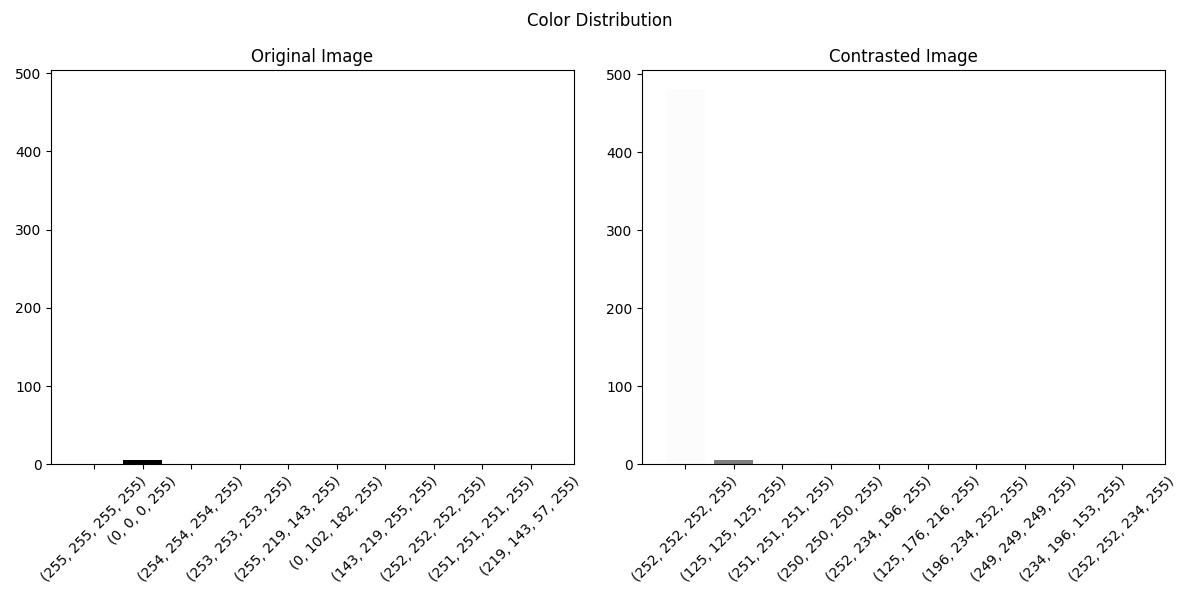
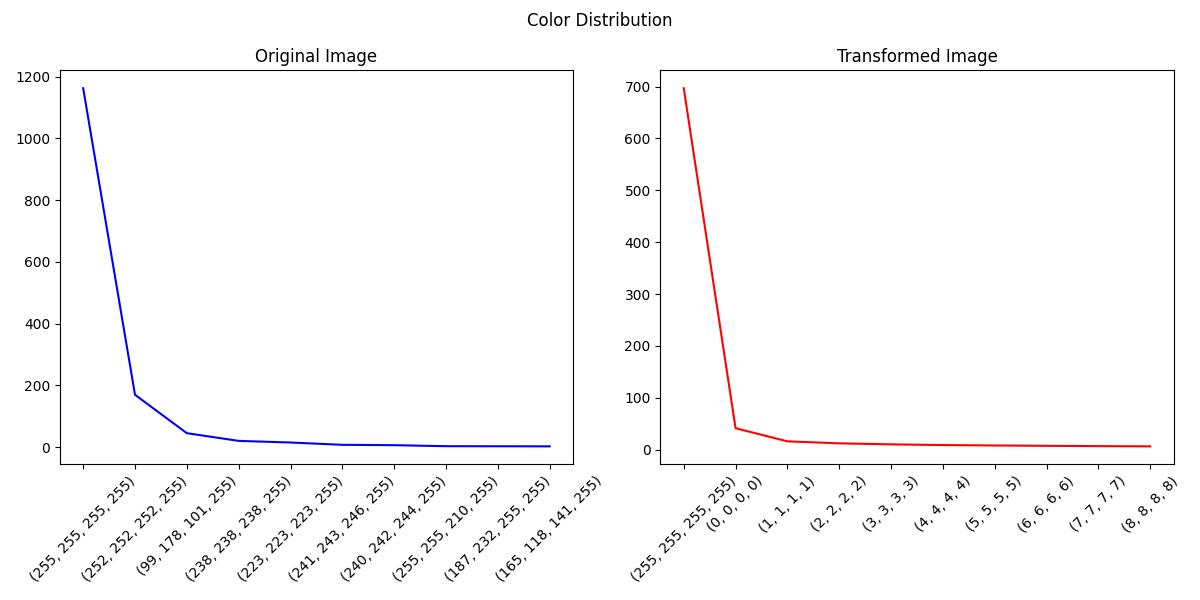
End

diff --git a/docs/templates/index.html b/docs/templates/index.html
@@ -1,27 +1,62 @@
 <!DOCTYPE html>
 <html>
-    <link rel="shortcut icon" href="/uploads/favicon.png" type="image/png">
-    <link href="https://cdn.jsdelivr.net/npm/bootstrap@5.0.2/dist/css/bootstrap.min.css" rel="stylesheet" integrity="sha384-EVSTQN3/azprG1Anm3QDgpJLIm9Nao0Yz1ztcQTwFspd3yD65VohhpuuCOmLASjC" crossorigin="anonymous">
-<head>
-    <title>Vertex Редактор</title>
-    <script src="https://www.google.com/recaptcha/api.js" async defer></script>
-</head>
-
-<body class="piwqnrfj"style="background-color:violet; padding: 100px;">
-
-    <center>
-        <div class="b4 container-fluid">
-            <h1><b>Именение изображения</b></h1>
-            <form action="{{ url_for('contrast') }}" method="post" enctype="multipart/form-data">
-                <label for="file">Выберите изображение для изменения:</label>
-                <input type="file" name="file" id="file" required><br><br>
-                <label for="contrast">Contrast level (0-1):</label>
-                <input type="number" name="contrast" id="contrast" min="0" max="1" step="0.1" value="0.5" required><br><br>
-                <div class="g-recaptcha" data-sitekey="{{ sitekey }}"></div><br><br>
-                <input type="submit" class="btn btn-info" value="Делай!" style="background-color: aquamarine; height: 200px; width: 200px; font-size: 40pt;">
-            </form>
+    <head>
+        <title>Vertex Editor</title>
+        <link href="https://cdn.jsdelivr.net/npm/bootstrap@5.0.2/dist/css/bootstrap.min.css" rel="stylesheet" integrity="sha384-EVSTQN3/azprG1Anm3QDgpJLIm9Nao0Yz1ztcQTwFspd3yD65VohhpuuCOmLASjC" crossorigin="anonymous">
+        <style>
+            body {
+                background-color: #000;
+                color: #fff;
+                padding: 100px;
+            }
+            .form-control:focus {
+                border-color: #3ee;
+                box-shadow: none;
+            }
+            .btn-primary {
+                background-color: #3ee;
+                border-color: #3ee;
+                font-size: 24px;
+                font-weight: bold;
+                padding: 10px 20px;
+            }
+            .btn-primary:hover {
+                background-color: #2dd;
+                border-color: #2dd;
+            }
+            .g-recaptcha {
+                display: inline-block;
+                margin-top: 20px;
+            }
+        </style>
+        <script src="https://www.google.com/recaptcha/api.js" async defer></script>
+    </head>
+    <body>
+        <div class="container">
+            <div class="row justify-content-center">
+                <div class="col-md-6">
+                    <h1 class="text-center mb-5">Image Transformation</h1>
+                    <form action="{{ url_for('transform') }}" method="post" enctype="multipart/form-data">
+                        <div class="form-group">
+                            <label for="file">Select an image to transform:</label>
+                            <input type="file" name="file" id="file" class="form-control" required>
+                        </div>
+                        <div class="form-group">
+                            <label for="function_type">Function type (sin/cos):</label>
+                            <input type="text" name="function_type" id="function_type" class="form-control" required>
+                        </div>
+                        <div class="form-group">
+                            <label for="period">Period:</label>
+                            <input type="number" name="period" id="period" class="form-control" required>
+                        </div>
+                        <div class="form-group">
+                            <div class="g-recaptcha" data-sitekey="{{ sitekey }}"></div>
+                        </div>
+                        <button type="submit" class="btn btn-primary btn-block">Transform</button>
+                    </form>
+                </div>
+            </div>
         </div>
-    </center>
-    <script src="https://cdn.jsdelivr.net/npm/bootstrap@5.0.2/dist/js/bootstrap.bundle.min.js" integrity="sha384-MrcW6ZMFYlzcLA8Nl+NtUVF0sA7MsXsP1UyJoMp4YLEuNSfAP+JcXn/tWtIaxVXM" crossorigin="anonymous"></script>
-</body>
+        <script src="https://cdn.jsdelivr.net/npm/bootstrap@5.0.2/dist/js/bootstrap.bundle.min.js" integrity="sha384-MrcW6ZMFYlzcLA8Nl+NtUVF0sA7MsXsP1UyJoMp4YLEuNSfAP+JcXn/tWtIaxVXM" crossorigin="anonymous"></script>
+    </body>
 </html>

diff --git a/docs/templates/result.html b/docs/templates/result.html
@@ -15,8 +15,8 @@
     <h1>Result</h1>
     <h2>Original Image: {{ orig }}</h2>
     <img src="{{ url_for('uploaded_file', filename='orig.png') }}" alt="Original Image">
-    <h2>Contrast-Adjusted Image</h2>
-    <img src="{{ url_for('uploaded_file', filename='contrasted.png') }}" alt="Contrast-Adjusted Image">
+    <h2>Transformed Image</h2>
+    <img src="{{ url_for('uploaded_file', filename='transformed.png') }}" alt="Transformed Image">
     <h2>Color Distribution</h2>
     <img src="{{ url_for('uploaded_file', filename='plot.png') }}" alt="Color Distribution">
     <button onclick="history.back()">Go back</button>

diff --git a/docs/app.py b/docs/app.py
@@ -1,94 +1,99 @@
 from flask import Flask, render_template, request, redirect, url_for, abort, send_from_directory
 import matplotlib.pyplot as plt
 import numpy as np
-from PIL import Image, ImageEnhance
+from PIL import Image
 import requests
 import os
 import base64
 
 app = Flask(__name__)
 app.config['MAX_CONTENT_LENGTH'] = 1024 * 1024  # 1 MB limit for uploaded files
-UPLOAD_FOLDER = './uploads'  # папка для загруженных файлов
-app.config['UPLOAD_FOLDER'] = UPLOAD_FOLDER 
-RECAPTCHA_SITE_KEY = '6LcZaf8lAAAAAP7VmVPopieoDDN-xoCapufM03BS'
+UPLOAD_FOLDER = './uploads'
+app.config['UPLOAD_FOLDER'] = UPLOAD_FOLDER
+RECAPTCHA_SITE_KEY = '6LdlLBAmAAAAADEkPEp1BIl_lbDYwzeE_n6lkhBt'
 
-# Image resizing endpoint
-@app.route('/contrast', methods=['POST'])
-def contrast():
-    # Get the uploaded file and contrast value from the request
+@app.route('/mywork', methods=['POST'])
+def transform():
     file = request.files.get('file')
-    contrast = float(request.form.get('contrast'))
+    function_type = request.form.get('function_type')
+    period = float(request.form.get('period'))
 
-    # Check if a file was uploaded
     if not file:
         abort(400, 'No file was uploaded')
-
-    # Check if the uploaded file is an image
     if not file.filename.lower().endswith(('.png', '.jpg', '.jpeg', '.gif')):
         abort(400, 'File is not an image')
-    # Verify the captcha
+
     recaptcha_response = request.form.get('g-recaptcha-response')
     if not recaptcha_response:
         abort(400, 'reCAPTCHA verification failed')
     payload = {
-        'secret': '6LcZaf8lAAAAAP395pmCF33ej4pr3mtdttF58CJH',
+        'secret': '6LdlLBAmAAAAABbqK-N4kGXshV9m_96TNR9Ka6ER',
         'response': recaptcha_response
     }
     response = requests.post('https://www.google.com/recaptcha/api/siteverify', payload).json()
     if not response['success']:
         abort(400, 'reCAPTCHA verification failed')
 
-    # Load the image and apply contrast enhancement
     img = Image.open(file)
-    contrasted_img = ImageEnhance.Contrast(img).enhance(contrast)
-    
+    img_array = np.array(img)
+    normalized_array = img_array / 255.0
 
-    # Calculate color distributions of original and contrasted images
+    x = np.linspace(-np.pi, np.pi, img_array.shape[1])
+    y = np.linspace(-np.pi, np.pi, img_array.shape[0])
+    X, Y = np.meshgrid(x, y)
+
+    if function_type == 'sin':
+        Z = np.sin(2 * np.pi * period * (X + Y))
+    elif function_type == 'cos':
+        Z = np.cos(2 * np.pi * period * (X + Y))
+    else:
+        abort(400, 'Invalid function type')
+
+    Z = np.expand_dims(Z, axis=2)
+    transformed_array = np.clip(normalized_array * (1 + Z), 0, 1)
+
+    transformed_img = Image.fromarray((transformed_array * 255).astype(np.uint8))
+
     orig_colors = get_color_distribution(img)
-    contrasted_colors = get_color_distribution(contrasted_img)
+    transformed_colors = get_color_distribution(transformed_img)
 
-    # Plot color distributions as bar graphs
     fig, (ax1, ax2) = plt.subplots(1, 2, figsize=(12, 6))
     fig.suptitle('Color Distribution')
-    ax1.bar(np.arange(len(orig_colors)), [c[0]/255 for c in orig_colors], color=[tuple(np.array(c[1])/255) for c in orig_colors])
+
+    ax1.plot(np.arange(len(orig_colors)), [c[0] / 255 for c in orig_colors], color='blue')  # set a single color
     ax1.set_xticks(np.arange(len(orig_colors)))
     ax1.set_xticklabels([c[1] for c in orig_colors], rotation=45)
     ax1.set_title('Original Image')
-    ax2.bar(np.arange(len(contrasted_colors)), [c[0]/255 for c in contrasted_colors], color=[tuple(np.array(c[1])/255) for c in contrasted_colors])
-    ax2.set_xticks(np.arange(len(contrasted_colors)))
-    ax2.set_xticklabels([c[1] for c in contrasted_colors], rotation=45)
-    ax2.set_title('Contrasted Image')
+
+    ax2.plot(np.arange(len(transformed_colors)), [c[0] / 255 for c in transformed_colors],
+             color='red')  # set a single color
+    ax2.set_xticks(np.arange(len(transformed_colors)))
+    ax2.set_xticklabels([c[1] for c in transformed_colors], rotation=45)
+    ax2.set_title('Transformed Image')
+
     plt.tight_layout()
-    # Save the plot to a file
     plot_filename = os.path.join(app.config['UPLOAD_FOLDER'], 'plot.png')
     plt.savefig(plot_filename)
-    # Save the contrasted image to a file
-    contrasted_filename = os.path.join(app.config['UPLOAD_FOLDER'], 'contrasted.png')
-    contrasted_img.save(contrasted_filename)  
-    orig_filename = os.path.join(app.config['UPLOAD_FOLDER'],'orig.png')
+    transformed_filename = os.path.join(app.config['UPLOAD_FOLDER'], 'transformed.png')
+    transformed_img.save(transformed_filename)
+    orig_filename = os.path.join(app.config['UPLOAD_FOLDER'], 'orig.png')
     img.save(orig_filename)
-    # Render the result page
-    result_filename = os.path.basename(plot_filename) # get just the filename from the path
-    # Open the plot image as a binary file
+
+    result_filename = os.path.basename(plot_filename)
     with open(plot_filename, 'rb') as f:
         plot_bytes = f.read()
 
-    # Encode the plot image as base64 for display in the HTML page
     plot_base64 = base64.b64encode(plot_bytes).decode('utf-8')
 
     return render_template('result.html', orig=orig_filename, plot=plot_base64, result_filename=result_filename)
 
-
-# Home page
 @app.route('/', methods=['GET'])
 def index():
     return render_template('index.html', sitekey=RECAPTCHA_SITE_KEY)
 
-# Utility function to get color distribution of an image
 def get_color_distribution(img):
     colors = img.getcolors(img.size[0] * img.size[1])
     return sorted(colors, key=lambda x: x[0], reverse=True)[:10]
-
 
 @app.route('/uploads/<filename>')
 def uploaded_file(filename):
